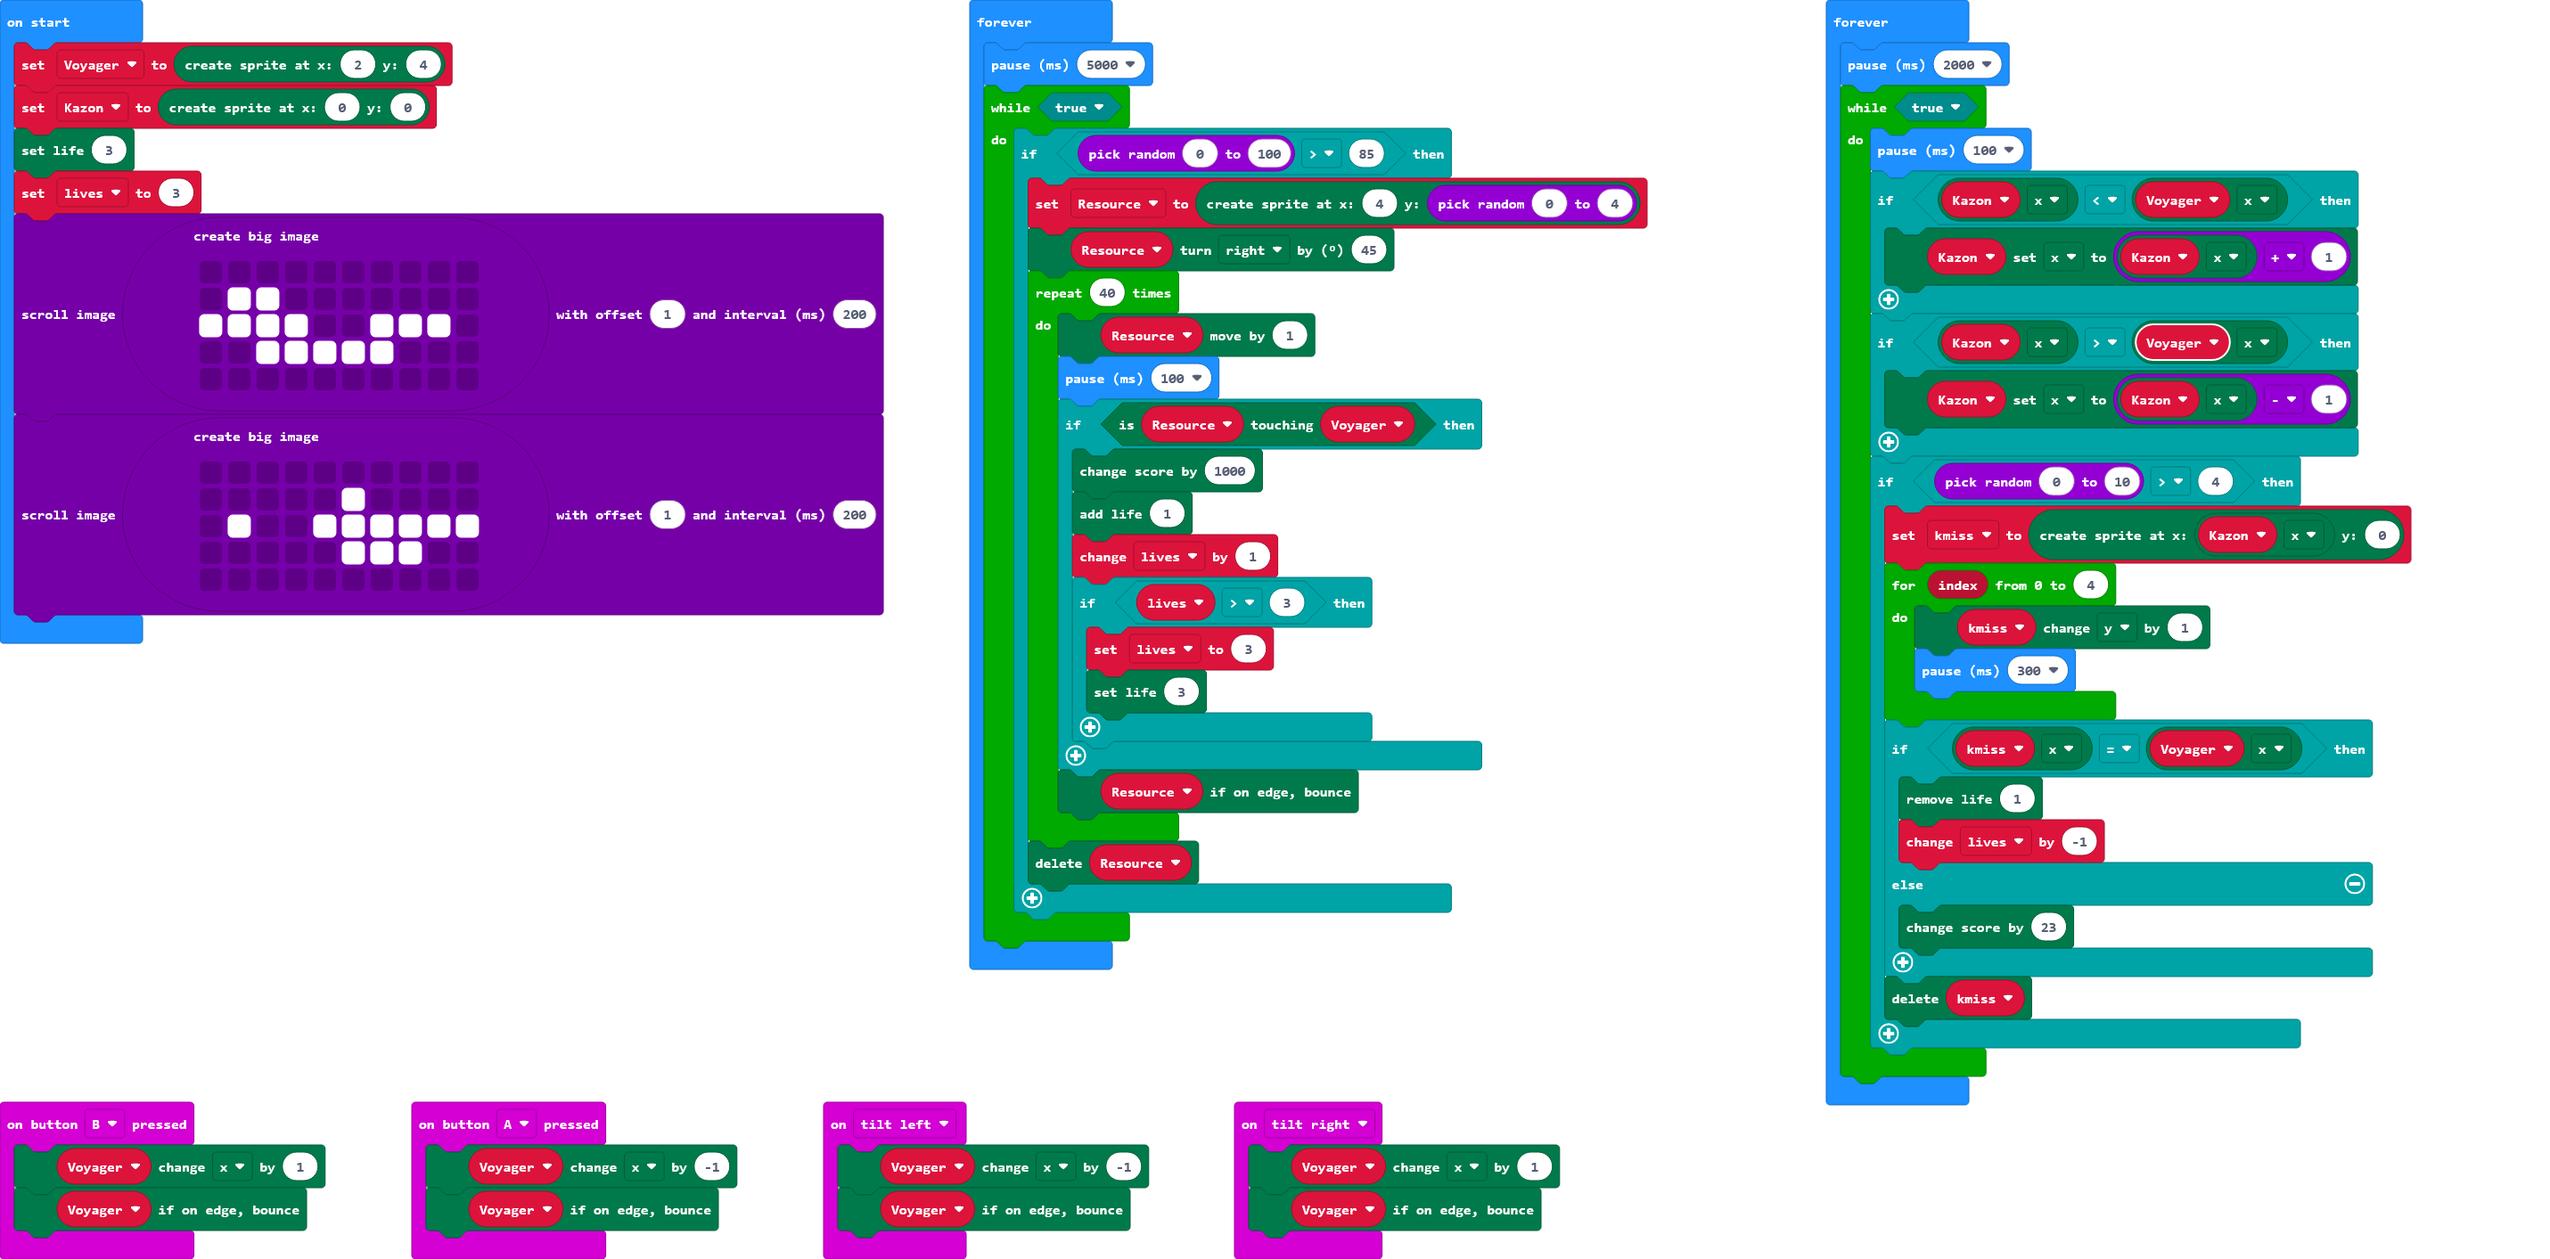
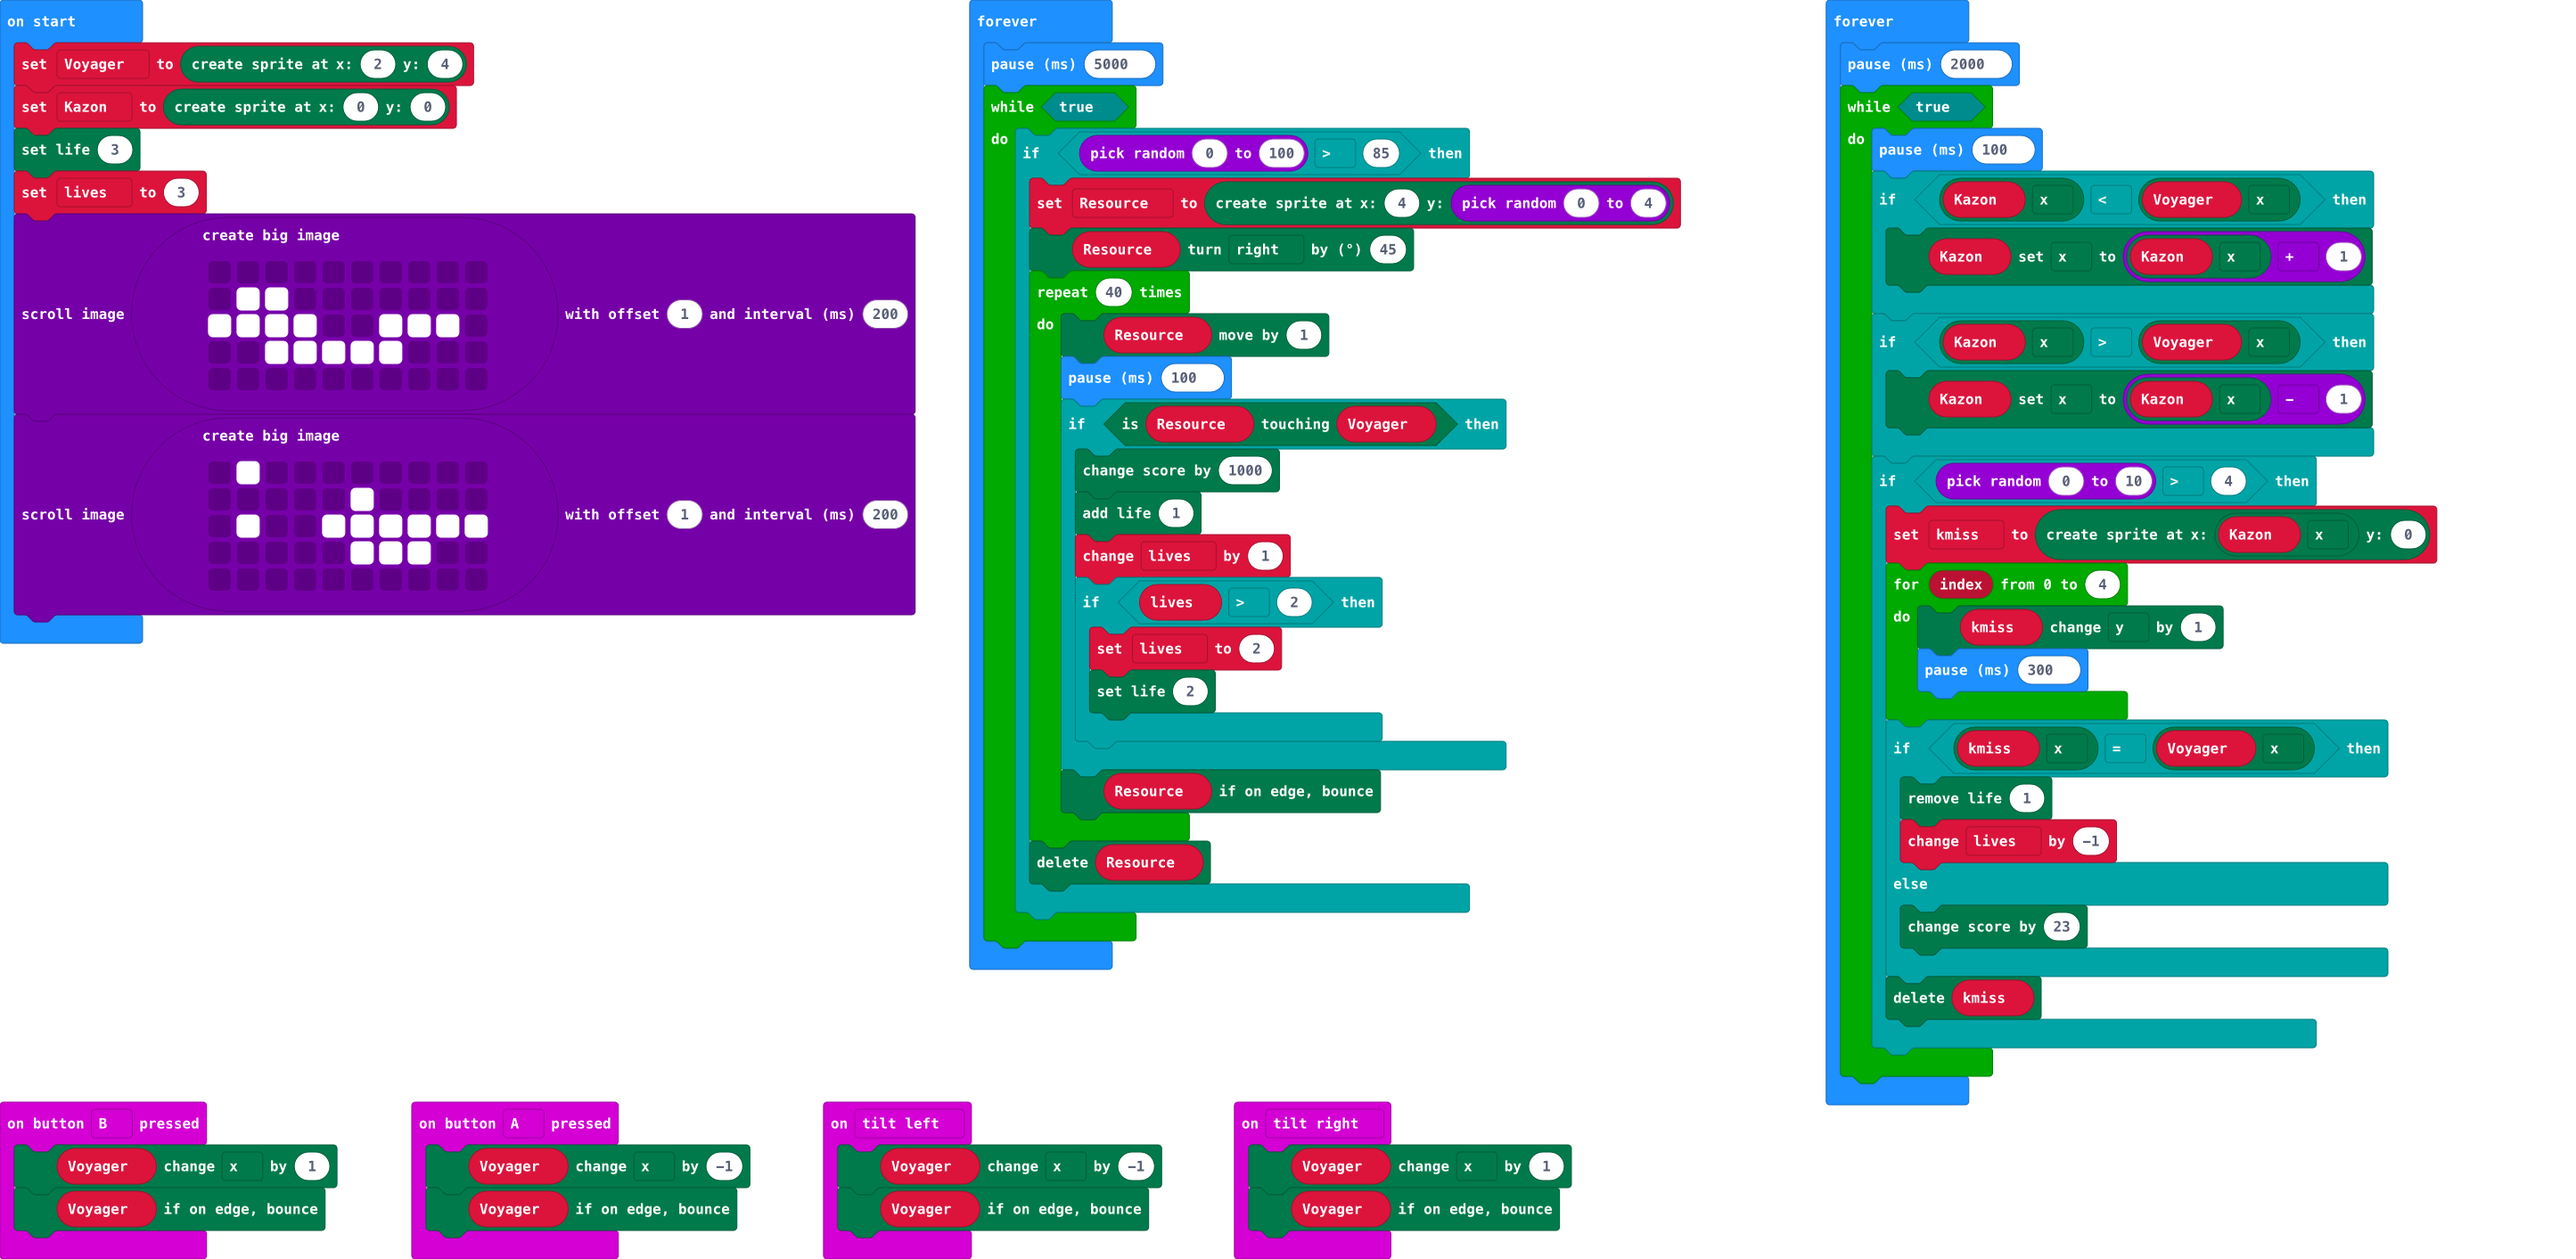
Update main.blocks, main.ts

diff --git a/main.ts b/main.ts
@@ -29,7 +29,7 @@ images.createBigImage(`
     . . . . . . . . . .
     `).scrollImage(1, 200)
 images.createBigImage(`
-    . . . . . . . . . .
+    . # . . . . . . . .
     . . . . . # . . . .
     . # . . # # # # # #
     . . . . . # # # . .
@@ -48,9 +48,9 @@ basic.forever(function () {
                     game.addScore(1000)
                     game.addLife(1)
                     lives += 1
-                    if (lives > 3) {
-                        lives = 3
-                        game.setLife(3)
+                    if (lives > 2) {
+                        lives = 2
+                        game.setLife(2)
                     }
                 }
                 Resource.ifOnEdgeBounce()
